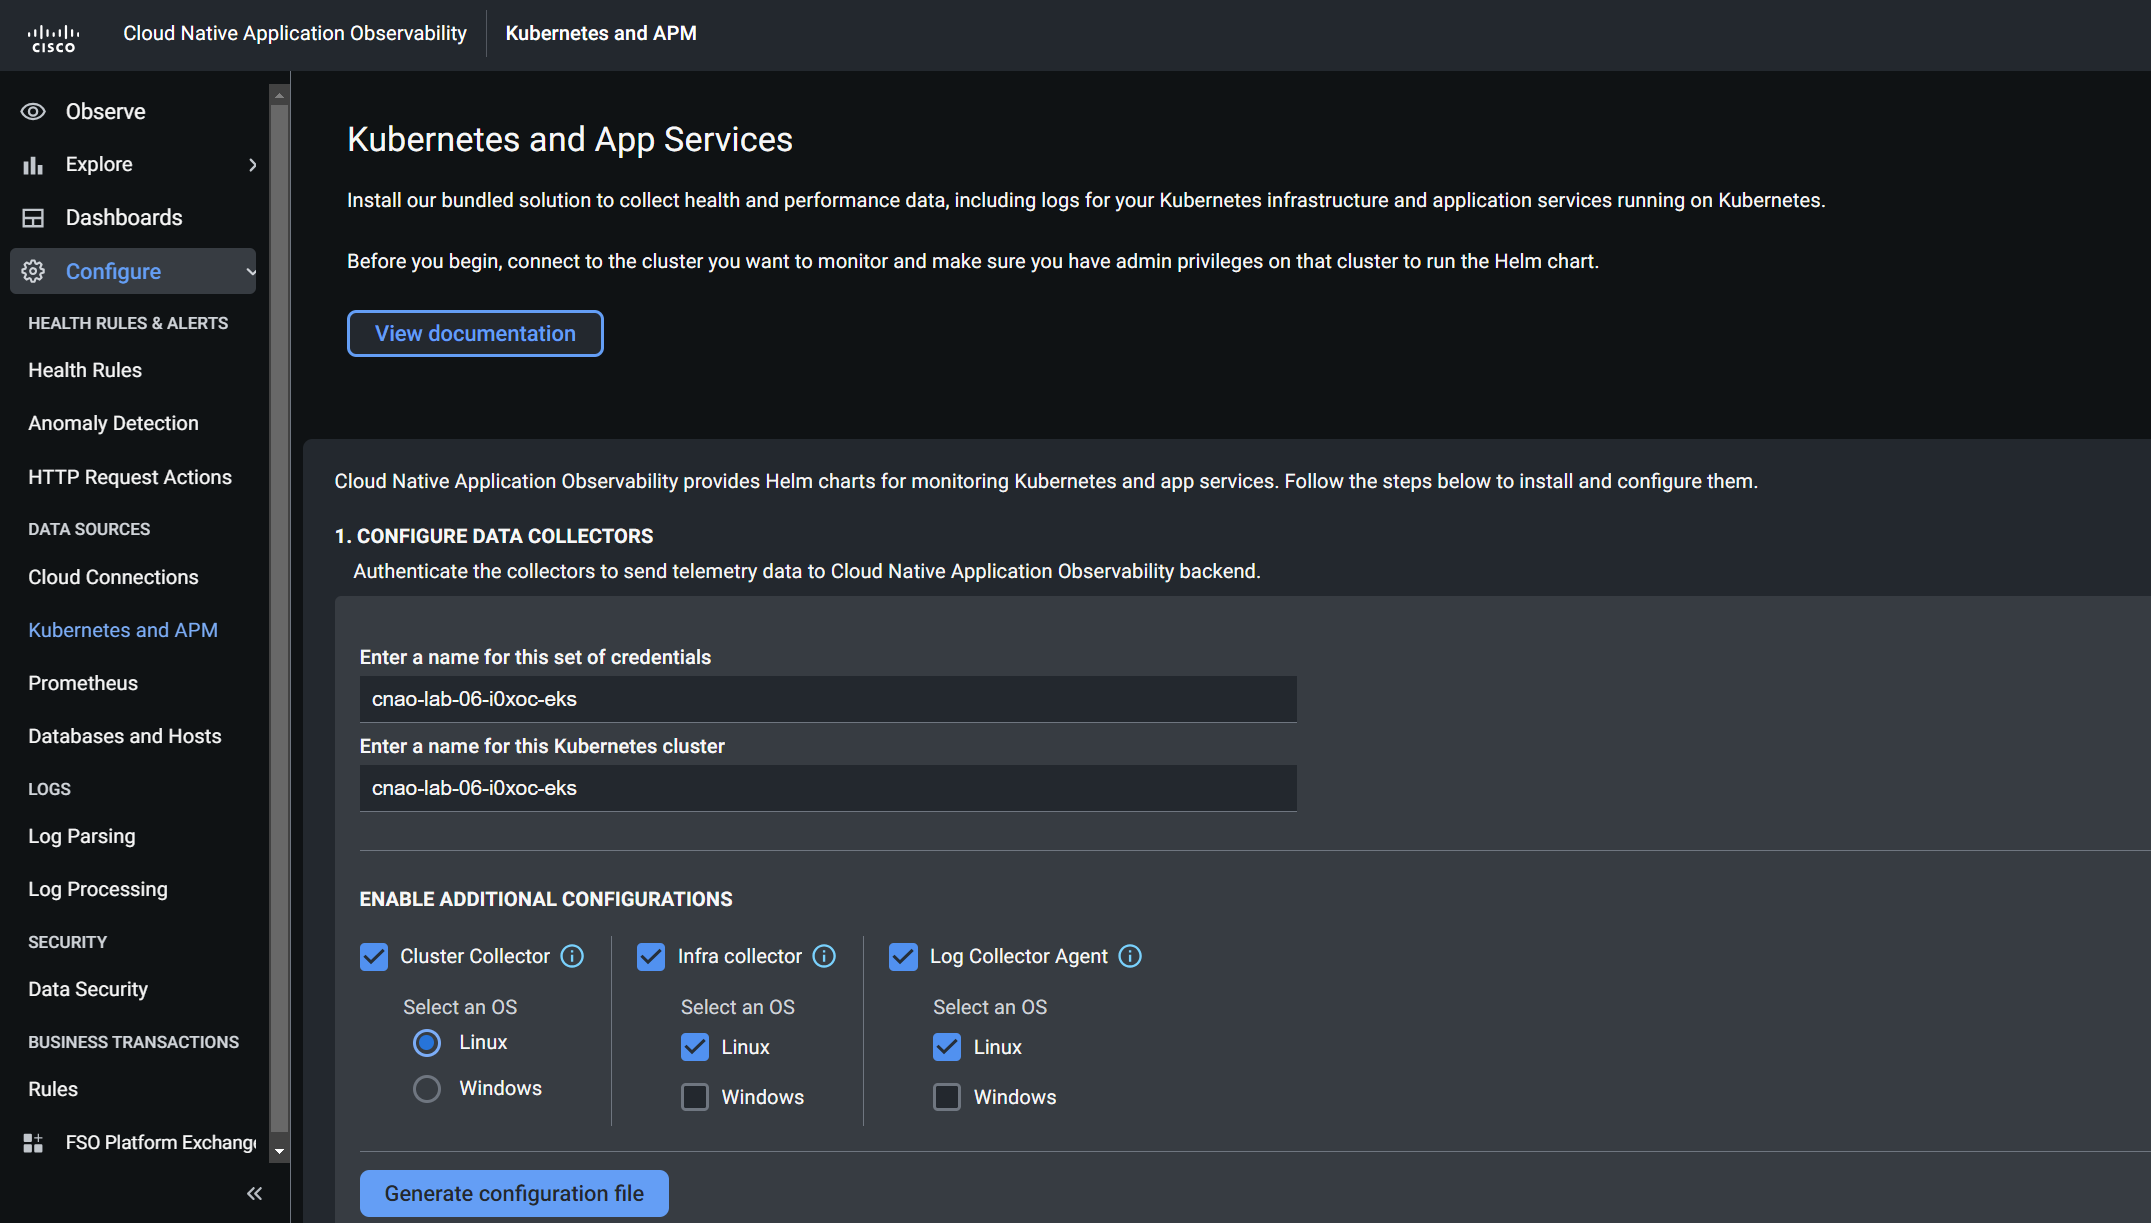
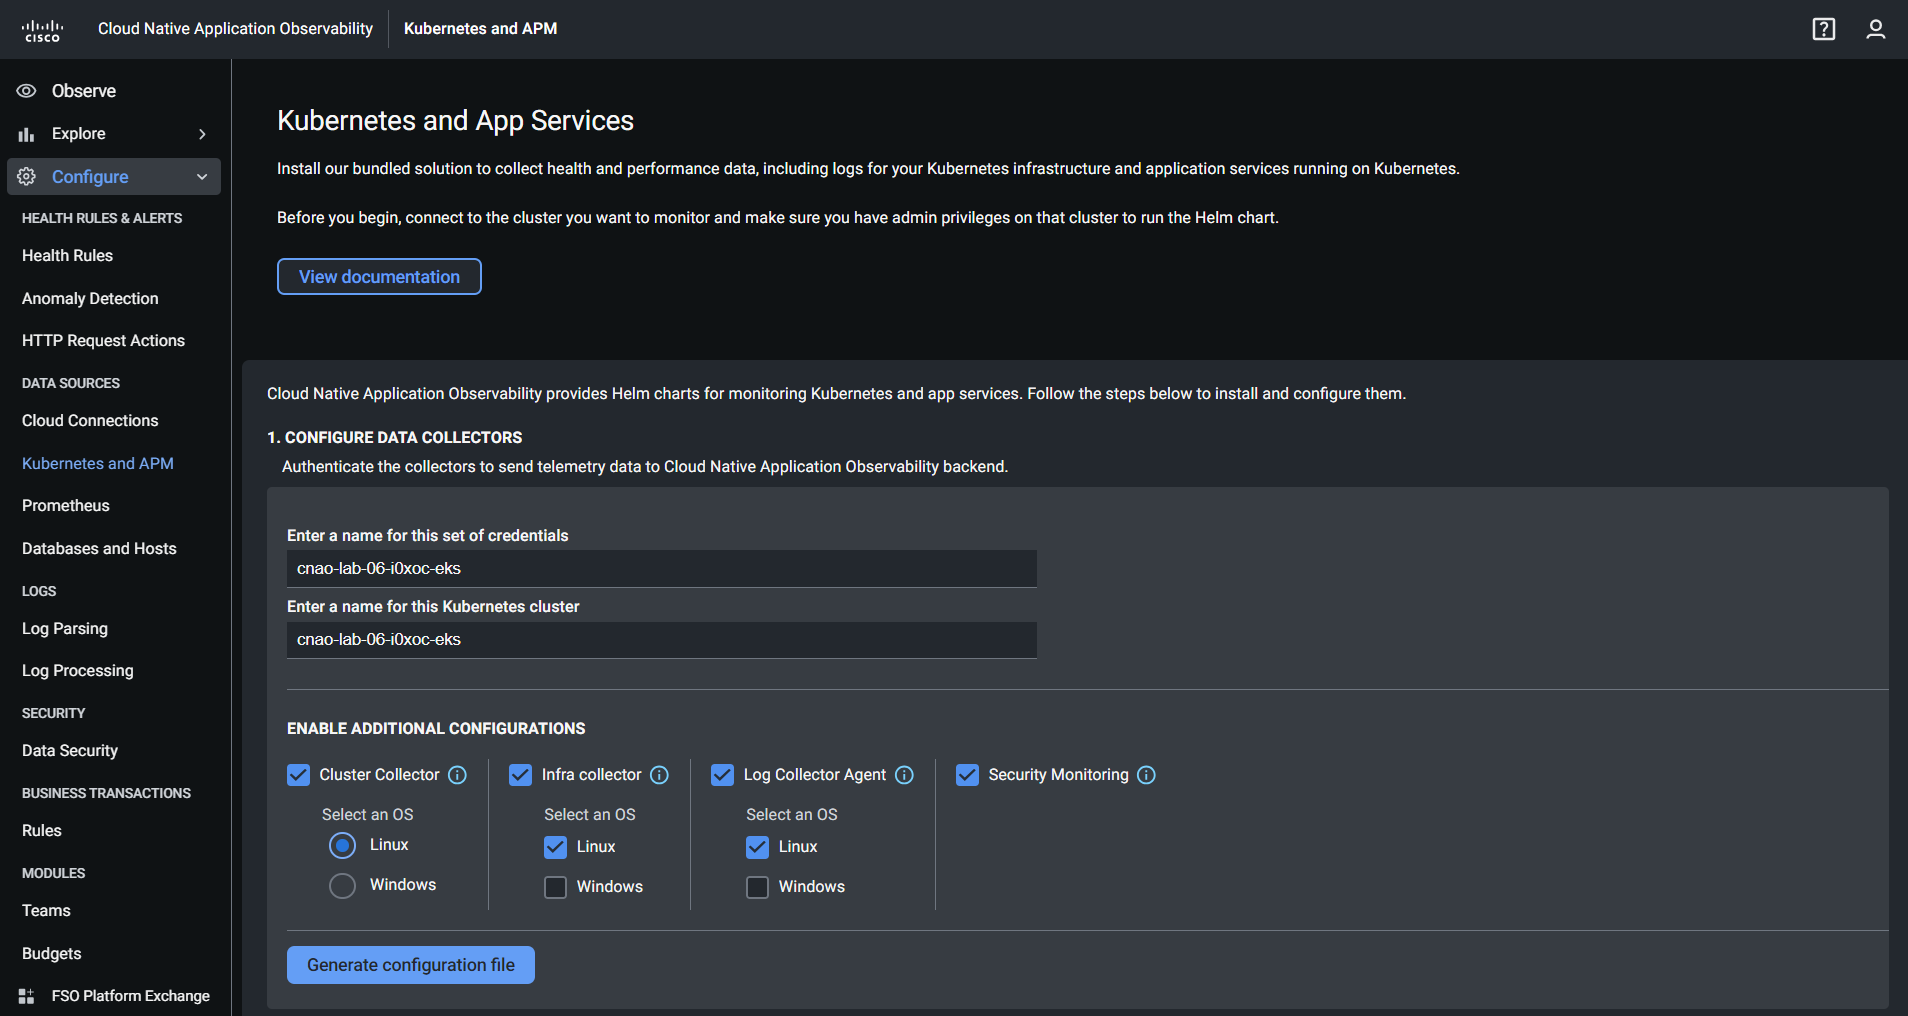
changing images to match cisco tenant

Changed region(s): [[0.0, 0.0, 1.0, 1.0]]

diff --git a/content/20_Hands_On_Deployment/22_generate_config_files/_index.md b/content/20_Hands_On_Deployment/22_generate_config_files/_index.md
@@ -23,9 +23,7 @@ Here, you'll generate your own set of credentials, which will be used for settin
 
 Use this value for both the credential set name in the first field and the unique name of the Kubernetes cluster in the second field. </span>
 
-<span style="color: #143c76;"><i class='fas fa-circle fa-sm'></i></span>&nbsp; In the **ENABLE ADDITIONAL CONFIGURATIONS** section, ensure that **Cluster Collector**, **Infra Collector**, and **Log Collector Agent** are all selected, choosing *Linux* for the OS option.</span>
-
-> TODO: In the configuration instructions the security monitoring is selected. We don't have access to that. Additionally, it looks like the UI changed, so you can also select Log configuration from the menu.
+<span style="color: #143c76;"><i class='fas fa-circle fa-sm'></i></span>&nbsp; In the **ENABLE ADDITIONAL CONFIGURATIONS** section, ensure that **Cluster Collector**, **Infra Collector**, **Log Collector Agent**, and **Security Monitoring** are all selected, choosing *Linux* for the OS option where applicable.</span>
 
 Below is an example showcasing both values configured. Make sure to use your own data in the input fields.
 
